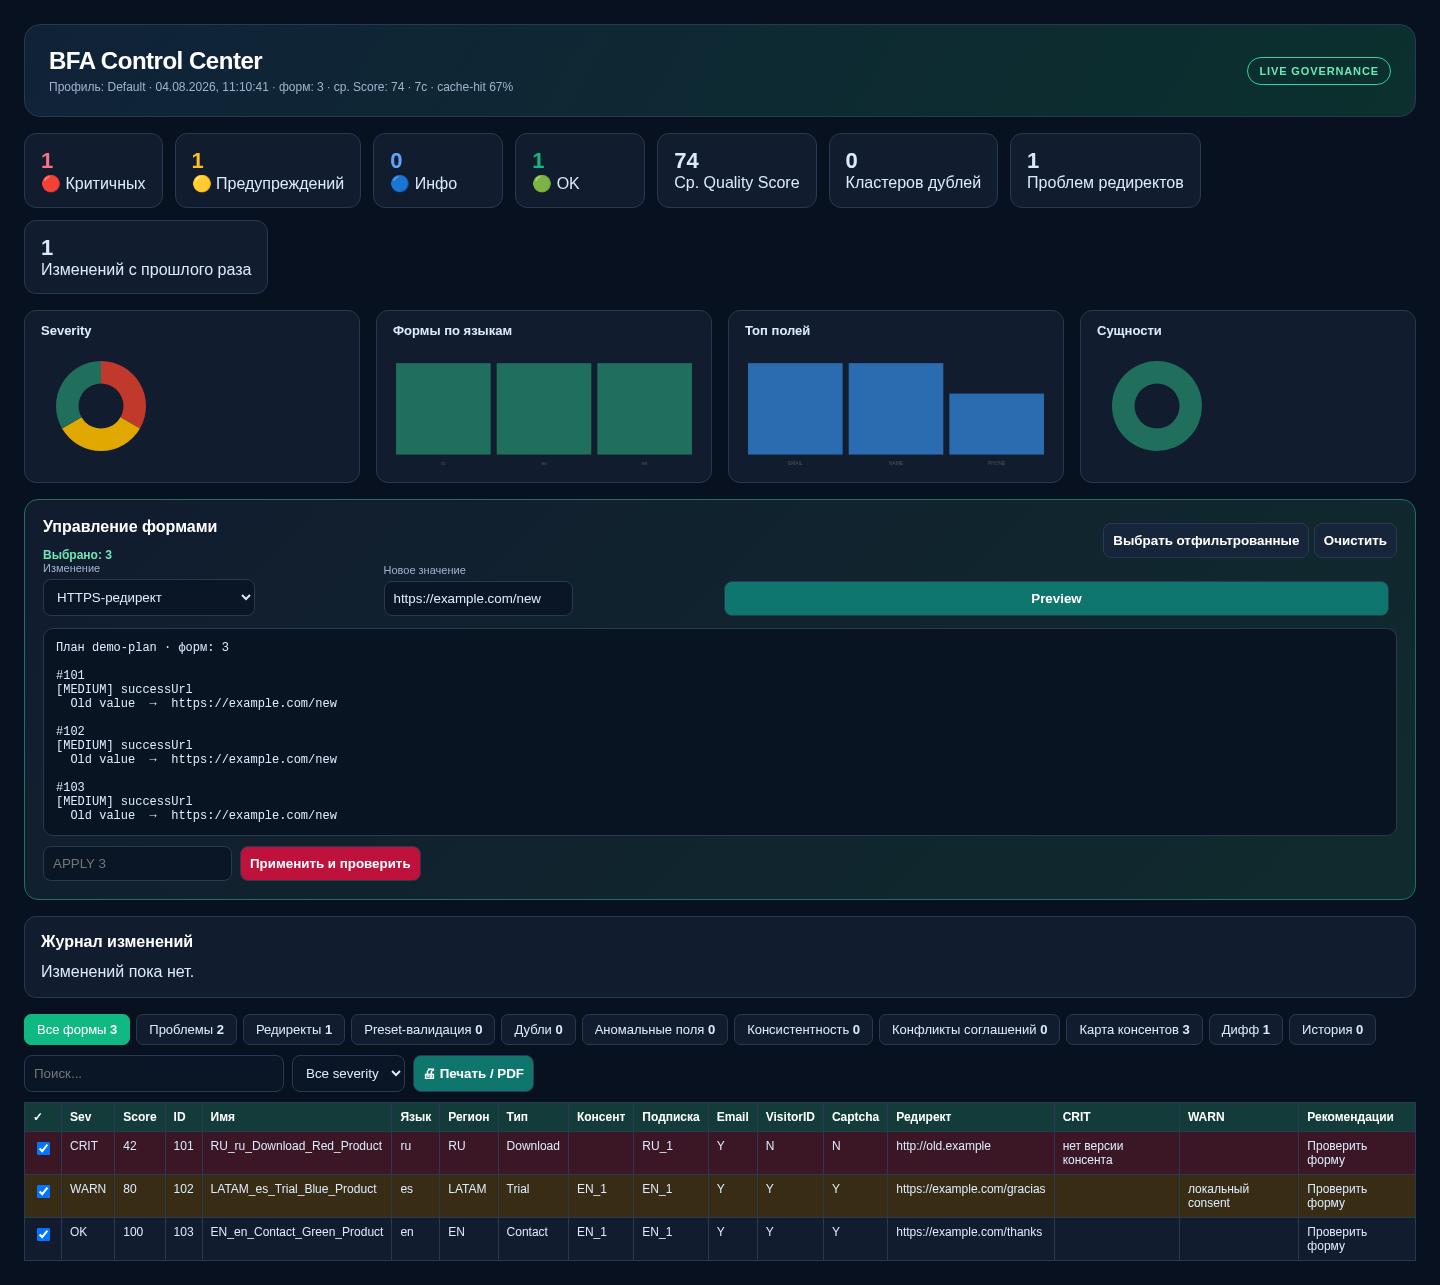
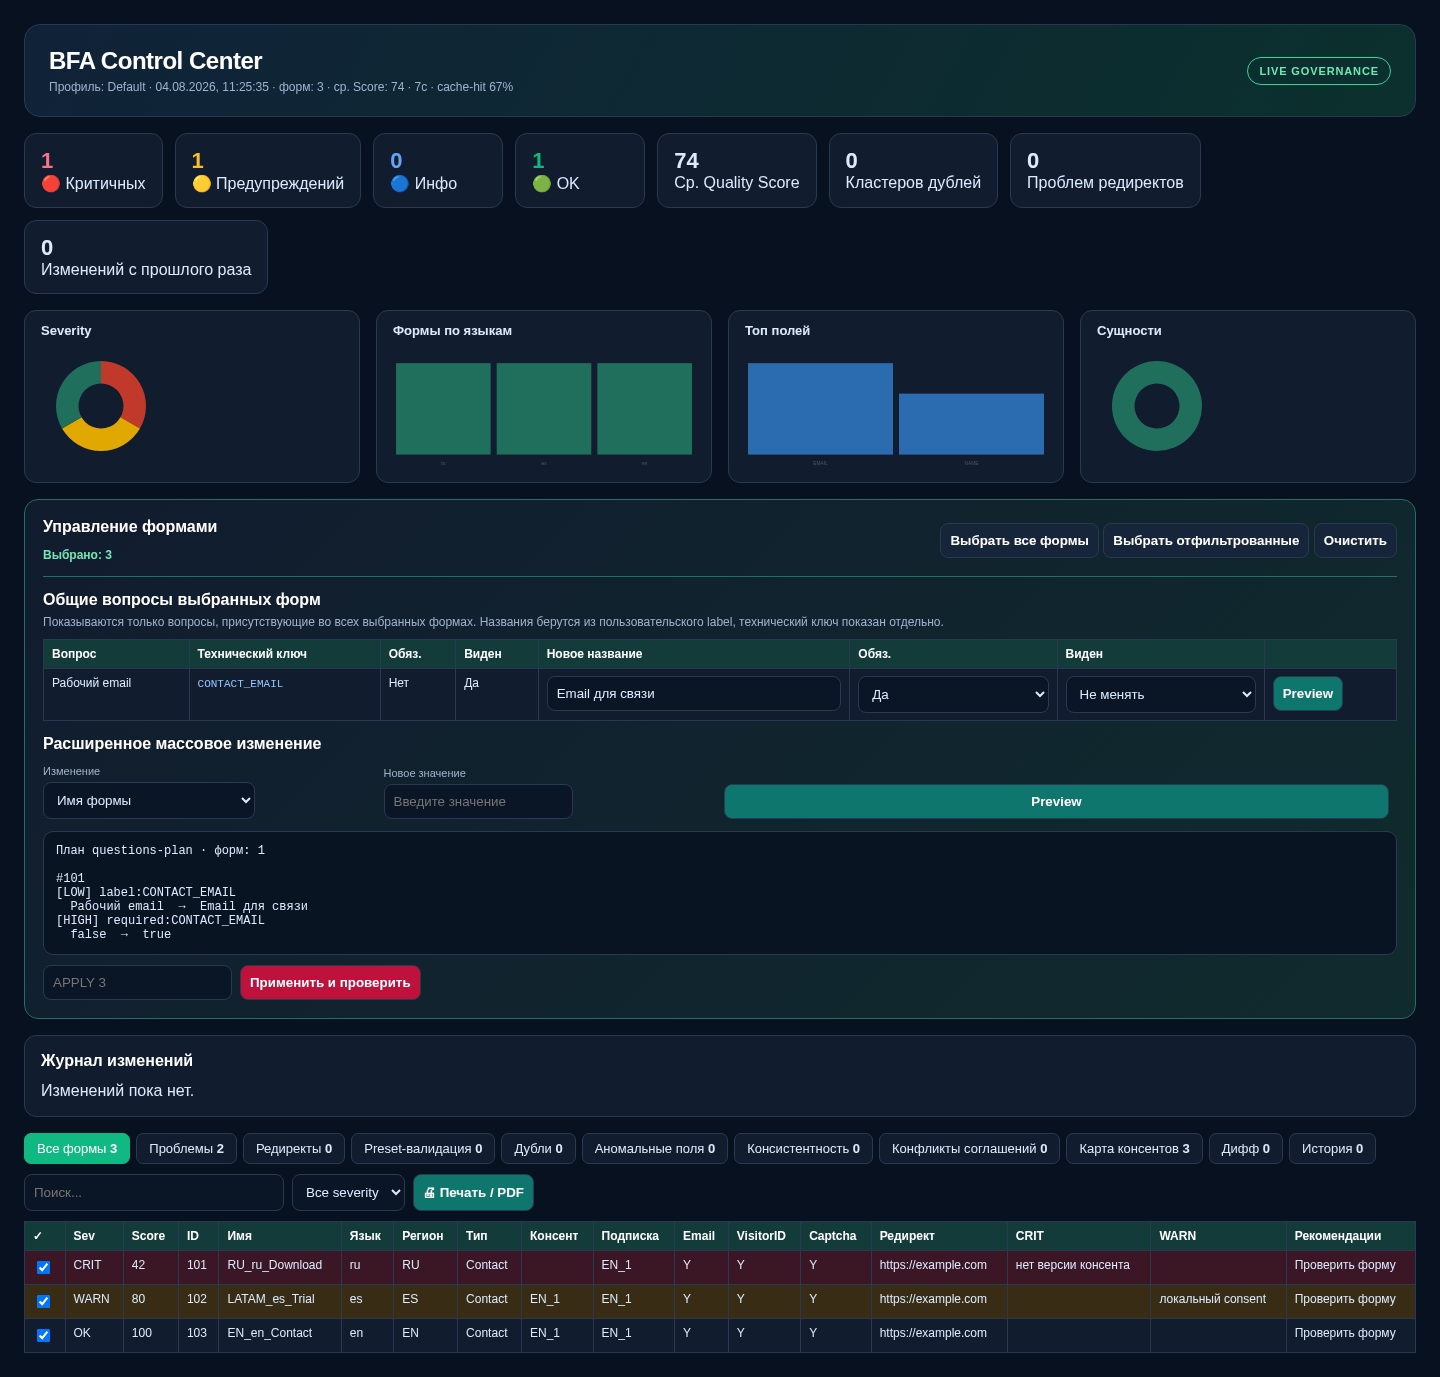
Add common question bulk editor

diff --git a/ui/report.js b/ui/report.js
@@ -162,6 +162,9 @@ function renderTabs() {
 }
 
 function render() {
+  var validIds = {};
+  R.rows.forEach(function (row) { validIds[row.id] = true; });
+  Object.keys(selected).forEach(function (id) { if (!validIds[id]) delete selected[id]; });
   $('meta').textContent = 'Профиль: ' + R.profile + ' · ' + new Date(R.generatedAt).toLocaleString('ru-RU') +
     ' · форм: ' + R.rows.length + ' · ср. Score: ' + R.avgScore +
     ' · ' + R.perfStats.totalSec + 'с · cache-hit ' + R.perfStats.cacheHitPct + '%';
@@ -196,13 +199,90 @@ function render() {
   $('dashboard').style.display = 'block';
 }
 
+function stateLabel(values) {
+  var unique = {};
+  values.forEach(function (value) { unique[String(value)] = true; });
+  if (Object.keys(unique).length > 1) return 'Смешано';
+  return values[0] ? 'Да' : 'Нет';
+}
+
+function renderCommonQuestions() {
+  if (!R) return;
+  var rows = R.rows.filter(function (row) { return selected[row.id]; });
+  if (!rows.length) { $('commonQuestions').textContent = 'Выберите формы, чтобы увидеть общие вопросы.'; return; }
+  if (rows.some(function (row) { return !Array.isArray(row.questions); })) {
+    $('commonQuestions').textContent = 'Запустите полный анализ после обновления BFA, чтобы загрузить названия вопросов.';
+    return;
+  }
+
+  var common = {};
+  rows[0].questions.forEach(function (question) {
+    common[question.name] = {
+      name: question.name, labels: [question.label || question.name],
+      required: [question.required], visible: [question.visible]
+    };
+  });
+  rows.slice(1).forEach(function (row) {
+    var byName = {};
+    row.questions.forEach(function (question) { byName[question.name] = question; });
+    Object.keys(common).forEach(function (name) {
+      var question = byName[name];
+      if (!question) { delete common[name]; return; }
+      common[name].labels.push(question.label || question.name);
+      common[name].required.push(question.required);
+      common[name].visible.push(question.visible);
+    });
+  });
+
+  var questions = Object.keys(common).map(function (name) { return common[name]; });
+  questions.sort(function (a, b) { return a.labels[0].localeCompare(b.labels[0], 'ru'); });
+  if (!questions.length) { $('commonQuestions').textContent = 'У выбранных форм нет общих вопросов.'; return; }
+
+  $('commonQuestions').innerHTML = '<table><thead><tr><th>Вопрос</th><th>Технический ключ</th><th>Обяз.</th><th>Виден</th><th>Новое название</th><th>Обяз.</th><th>Виден</th><th></th></tr></thead><tbody>' +
+    questions.map(function (question) {
+      var labels = Array.from(new Set(question.labels));
+      var original = labels.length === 1 ? labels[0] : '';
+      var title = labels.length === 1 ? labels[0] : 'Разные названия: ' + labels.join(' / ');
+      return '<tr data-question="' + esc(question.name) + '"><td data-label="Вопрос" title="' + esc(title) + '">' + esc(title) +
+        '</td><td data-label="Технический ключ"><code>' + esc(question.name) + '</code></td><td data-label="Сейчас обязательный">' + esc(stateLabel(question.required)) +
+        '</td><td data-label="Сейчас виден">' + esc(stateLabel(question.visible)) + '</td><td data-label="Новое название"><input class="question-label" data-original="' +
+        esc(original) + '" value="' + esc(original) + '" placeholder="Введите единое название"></td>' +
+        '<td data-label="Новая обязательность"><select class="question-required"><option value="keep">Не менять</option><option value="true">Да</option><option value="false">Нет</option></select></td>' +
+        '<td data-label="Новая видимость"><select class="question-visible"><option value="keep">Не менять</option><option value="true">Да</option><option value="false">Нет</option></select></td>' +
+        '<td data-label="Проверка"><button class="question-preview">Preview</button></td></tr>';
+    }).join('') + '</tbody></table>';
+
+  [].forEach.call($('commonQuestions').querySelectorAll('.question-preview'), function (button) {
+    button.onclick = function () {
+      var row = button.closest('tr'), field = row.getAttribute('data-question');
+      var labelInput = row.querySelector('.question-label');
+      var label = labelInput.value.trim(), original = labelInput.getAttribute('data-original');
+      var required = row.querySelector('.question-required').value;
+      var visible = row.querySelector('.question-visible').value;
+      var operations = [];
+      Object.keys(selected).forEach(function (id) {
+        if (label && label !== original) operations.push({ formId: id, kind: 'label', field: field, value: label });
+        if (required !== 'keep') operations.push({ formId: id, kind: 'required', field: field, value: required === 'true' });
+        if (visible !== 'keep') operations.push({ formId: id, kind: 'visible', field: field, value: visible === 'true' });
+      });
+      if (!operations.length) {
+        $('editPreview').textContent = 'Укажите новое название, обязательность или видимость.';
+        $('editPreview').style.display = 'block';
+        return;
+      }
+      requestPreview(operations);
+    };
+  });
+}
+
 function updateSelection() {
   $('selection').textContent = 'Выбрано: ' + Object.keys(selected).length;
+  renderCommonQuestions();
 }
 
 function updateEditor() {
   var kind = $('editKind').value;
-  var needsField = kind === 'preset' || kind === 'required' || kind === 'visible';
+  var needsField = kind === 'preset' || kind === 'label' || kind === 'required' || kind === 'visible';
   var isBoolean = kind === 'required' || kind === 'visible';
   $('fieldWrap').style.display = needsField ? 'block' : 'none';
   $('editValue').style.display = isBoolean ? 'none' : 'block';
@@ -254,19 +334,18 @@ function loadAudit() {
 }
 
 $('editKind').onchange = updateEditor;
+$('selectAll').onclick = function () {
+  R.rows.forEach(function (row) { selected[row.id] = true; });
+  updateSelection(); renderTable();
+};
 $('selectShown').onclick = function () {
   lastFiltered.forEach(function (row) { selected[row.id] = true; });
   updateSelection(); renderTable();
 };
 $('clearSelected').onclick = function () { selected = {}; updateSelection(); renderTable(); };
-$('previewEdits').onclick = function () {
-  var ids = Object.keys(selected);
-  if (!ids.length) { $('editPreview').textContent = 'Выберите хотя бы одну форму.'; $('editPreview').style.display = 'block'; return; }
-  var kind = $('editKind').value;
-  var value = (kind === 'required' || kind === 'visible') ? $('editBoolean').value === 'true' : $('editValue').value;
-  var operations = ids.map(function (id) {
-    return { formId: id, kind: kind, field: $('editField').value.trim(), value: value };
-  });
+function requestPreview(operations) {
+  pendingPlan = null;
+  $('approval').className = 'approval';
   $('previewEdits').disabled = true;
   $('editPreview').textContent = 'Загружаю свежие формы из Bitrix24...';
   $('editPreview').style.display = 'block';
@@ -275,6 +354,15 @@ $('previewEdits').onclick = function () {
     if (!response || !response.ok) { $('editPreview').textContent = 'Ошибка preview: ' + ((response || {}).error || 'нет ответа'); return; }
     pendingPlan = response.plan; renderPlan(pendingPlan);
   });
+}
+$('previewEdits').onclick = function () {
+  var ids = Object.keys(selected);
+  if (!ids.length) { $('editPreview').textContent = 'Выберите хотя бы одну форму.'; $('editPreview').style.display = 'block'; return; }
+  var kind = $('editKind').value;
+  var value = (kind === 'required' || kind === 'visible') ? $('editBoolean').value === 'true' : $('editValue').value;
+  requestPreview(ids.map(function (id) {
+    return { formId: id, kind: kind, field: $('editField').value.trim(), value: value };
+  }));
 };
 $('applyEdits').onclick = function () {
   if (!pendingPlan) return;

diff --git a/ui/report.html b/ui/report.html
@@ -24,6 +24,12 @@
   .control-grid { display:grid; grid-template-columns:minmax(180px,1fr) minmax(160px,1fr) minmax(220px,2fr) auto; gap:8px; align-items:end; }
   .control label { display:block; color:#9fb2cc; font-size:11px; margin-bottom:5px; }
   .selection { color:#6ee7b7; font-size:12px; font-weight:700; }
+  .common { margin:14px 0; border-top:1px solid #256e67; padding-top:14px; }
+  .common-help { color:#9fb2cc; font-size:12px; margin:-6px 0 10px; }
+  .common-wrap { overflow:auto; max-height:360px; }
+  .common table { min-width:900px; }
+  .common input, .common select { width:100%; min-width:120px; }
+  .common code { color:#93c5fd; font-size:11px; }
   .preview { margin-top:12px; padding:12px; border:1px solid var(--line); border-radius:10px; background:#081421; white-space:pre-wrap; font:12px ui-monospace,monospace; display:none; max-height:260px; overflow:auto; }
   .approval { display:none; gap:8px; align-items:center; margin-top:10px; }
   .approval.show { display:flex; }
@@ -48,7 +54,16 @@
   td.long { max-width: 260px; overflow: hidden; text-overflow: ellipsis; }
   .wrap { overflow: auto; max-height: 68vh; }
   .empty { padding:40px; text-align:center; color:#9fb2cc; }
-  @media (max-width:900px) { .control-grid { grid-template-columns:1fr; } body { padding:12px; } }
+  @media (max-width:900px) {
+    .control-grid { grid-template-columns:1fr; } body { padding:12px; }
+    .common table { min-width:0; }
+    .common thead { display:none; }
+    .common tbody, .common tr, .common td { display:block; width:100%; }
+    .common tr { border:1px solid var(--line); border-radius:10px; padding:8px; margin-bottom:10px; }
+    .common td { border:0; padding:6px 0; }
+    .common td::before { content:attr(data-label); display:block; color:#9fb2cc; font-size:10px; margin-bottom:3px; }
+    .common .question-preview { width:100%; }
+  }
   @media print { .controls, .tabs, .control, .audit, .live { display:none; } th { position:static; } body { margin:0; background:#fff; color:#222; } }
 </style>
 </head>
@@ -65,13 +80,19 @@
     <section class="control" aria-labelledby="controlTitle">
       <div class="control-head">
         <div><h2 id="controlTitle">Управление формами</h2><div class="selection" id="selection">Выбрано: 0</div></div>
-        <div><button class="secondary" id="selectShown">Выбрать отфильтрованные</button> <button class="secondary" id="clearSelected">Очистить</button></div>
+        <div><button class="secondary" id="selectAll">Выбрать все формы</button> <button class="secondary" id="selectShown">Выбрать отфильтрованные</button> <button class="secondary" id="clearSelected">Очистить</button></div>
       </div>
+      <div class="common">
+        <h2>Общие вопросы выбранных форм</h2>
+        <div class="common-help">Показываются только вопросы, присутствующие во всех выбранных формах. Названия берутся из пользовательского label, технический ключ показан отдельно.</div>
+        <div class="common-wrap" id="commonQuestions">Выберите формы, чтобы увидеть общие вопросы.</div>
+      </div>
+      <h2>Расширенное массовое изменение</h2>
       <div class="control-grid">
         <div><label for="editKind">Изменение</label><select id="editKind">
           <option value="name">Имя формы</option><option value="title">Заголовок</option>
           <option value="buttonCaption">Текст кнопки</option><option value="successUrl">HTTPS-редирект</option>
-          <option value="preset">Существующее preset-поле</option><option value="required">Обязательность поля</option>
+          <option value="preset">Существующее preset-поле</option><option value="label">Текст вопроса</option><option value="required">Обязательность поля</option>
           <option value="visible">Видимость поля</option>
         </select></div>
         <div id="fieldWrap" style="display:none"><label for="editField">Поле</label><input id="editField" placeholder="CONTACT_EMAIL"></div>

diff --git a/core/editor.js b/core/editor.js
@@ -1,4 +1,4 @@
-var KINDS = ['name', 'title', 'buttonCaption', 'successUrl', 'preset', 'required', 'visible'];
+var KINDS = ['name', 'title', 'buttonCaption', 'successUrl', 'preset', 'label', 'required', 'visible'];
 
 function clone(value) { return JSON.parse(JSON.stringify(value)); }
 
@@ -39,7 +39,7 @@ export function normalizeOperation(operation) {
   if (out.kind === 'preset' && !/^[A-Z0-9_]+$/.test(out.field)) {
     throw new Error('Некорректное имя preset-поля');
   }
-  if ((out.kind === 'required' || out.kind === 'visible') && !out.field) {
+  if ((out.kind === 'label' || out.kind === 'required' || out.kind === 'visible') && !out.field) {
     throw new Error('Укажите поле формы');
   }
   if (out.kind === 'required' || out.kind === 'visible') {
@@ -47,7 +47,9 @@ export function normalizeOperation(operation) {
   } else {
     out.value = String(out.value == null ? '' : out.value).trim();
     if (out.value.length > 2000) throw new Error('Значение слишком длинное');
-    if (out.kind === 'name' && !out.value) throw new Error('Имя формы не может быть пустым');
+    if ((out.kind === 'name' || out.kind === 'label') && !out.value) {
+      throw new Error(out.kind === 'name' ? 'Имя формы не может быть пустым' : 'Текст вопроса не может быть пустым');
+    }
     if (out.kind === 'successUrl' && out.value) {
       var url;
       try { url = new URL(out.value); } catch (e) { throw new Error('Некорректный URL'); }

diff --git a/test/core.test.js b/test/core.test.js
@@ -26,6 +26,11 @@ test('editor validates, patches, and reads only supported form settings', functi
   assert.equal(form.presetFields[0].value, 'EN_1');
   assert.equal(editRisk(operation), 'MEDIUM');
 
+  var renamed = applyEdit(form, {
+    formId: 42, kind: 'label', field: 'CONTACT_EMAIL', value: 'Рабочий email'
+  });
+  assert.equal(readEditValue(renamed.options, renamed.operation), 'Рабочий email');
+
   assert.throws(function () {
     normalizeOperation({ formId: 42, kind: 'successUrl', value: 'http://example.com' });
   }, /HTTPS/);
@@ -55,7 +60,7 @@ test('analyzer produces stable rows, exports, and diffs', function () {
       data: {
         language: 'ru',
         fields: [
-          { name: 'CONTACT_EMAIL', visible: true, required: true },
+          { name: 'CONTACT_EMAIL', label: 'Рабочий email', visible: true, required: true },
           { name: 'CONTACT_NAME', visible: true, required: false }
         ],
         agreements: []
@@ -72,6 +77,9 @@ test('analyzer produces stable rows, exports, and diffs', function () {
   var result = analyze(raw, DEFAULT_REQUIREMENTS, {}, 0.9);
   assert.equal(result.rows.length, 1);
   assert.equal(result.rows[0].severity, 'OK');
+  assert.deepEqual(result.rows[0].questions[0], {
+    name: 'CONTACT_EMAIL', label: 'Рабочий email', required: true, visible: true
+  });
   assert.equal(JSON.parse(toJsonl(result.rows)).id, '42');
 
   var previous = buildSnapshot(result.rows);

diff --git a/analyzers/analyze.js b/analyzers/analyze.js
@@ -31,6 +31,12 @@ export function analyze(raw, RULES, presetRules, dupThreshold) {
   Object.keys(raw).forEach(function (id) {
     var top = raw[id], d = top.data || {};
     var fields = Array.isArray(d.fields) ? d.fields : [];
+    var questions = fields.map(function (f) {
+      return {
+        name: f.name || '', label: clean(f.label || f.name),
+        required: !!f.required, visible: f.visible !== false
+      };
+    }).filter(function (f) { return f.name; });
     var visible = fields.filter(function (f) { return f.visible !== false; });
     var visNames = visible.map(function (f) { return f.name; });
     visible.forEach(function (f) {
@@ -91,6 +97,7 @@ export function analyze(raw, RULES, presetRules, dupThreshold) {
       id: id, name: clean(top.name), language: lang, entity: entity, region: nmeta.region, formType: nmeta.formType, product: nmeta.product, color: nmeta.color,
       theme: (d.design || {}).theme || '', buttonCaption: clean(d.buttonCaption),
       visibleCount: visible.length, visibleFields: visNames.join(', '),
+      questions: questions,
       requiredFields: visible.filter(function (f) { return f.required; }).map(function (f) { return f.name; }).join(', '),
       presetCount: preset.length, consentVersion: cv, subscriptionVersion: sv,
       hasVisitorId: pnames.indexOf('UF_CRM_VISITOR_ID') > -1 ? 'Y' : 'N',

diff --git a/README.md b/README.md
@@ -34,8 +34,8 @@ sync, region-specific rule profiles, run history, and optional alerting.
 The v6 redesign combines 10 operational features in one workflow:
 
 1. **Fleet command center** — dense health KPIs, charts, risk queues, and searchable inventory.
-2. **Bulk scope control** — select individual forms or every row in the current smart filter.
-3. **Safe editor** — change names, titles, buttons, HTTPS redirects, existing presets, and field visibility/required state.
+2. **Bulk scope control** — select individual forms, every filtered row, or the complete form fleet.
+3. **Common-question editor** — intersect selected forms by technical field key, show human-readable question labels, and bulk-edit label, visibility, and required state.
 4. **Exact dry-run preview** — fetches fresh forms and shows before/after values before any mutation.
 5. **Risk-aware changes** — every edit is labeled LOW, MEDIUM, or HIGH.
 6. **Explicit approval** — applying requires the generated `APPLY N` confirmation within 15 minutes.
